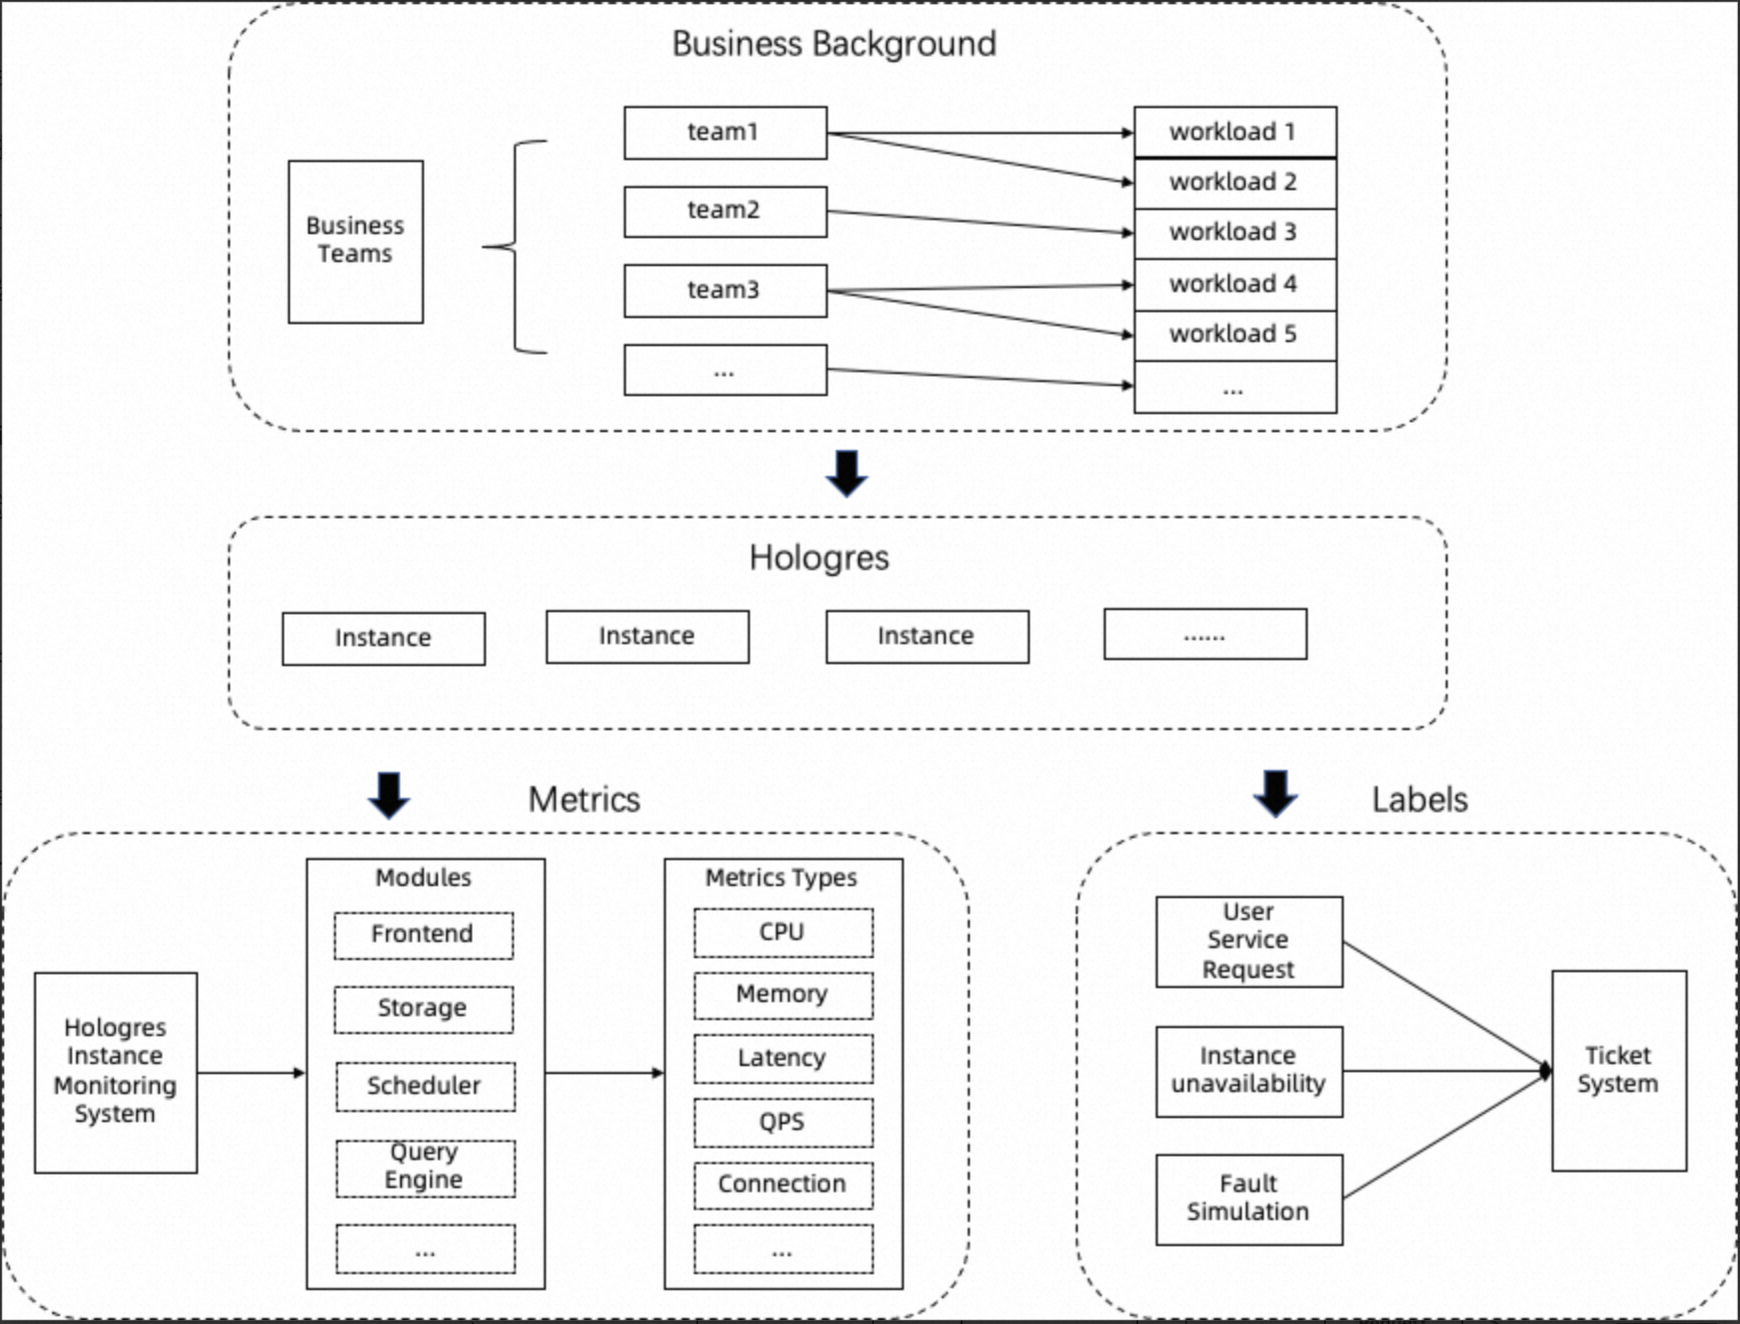
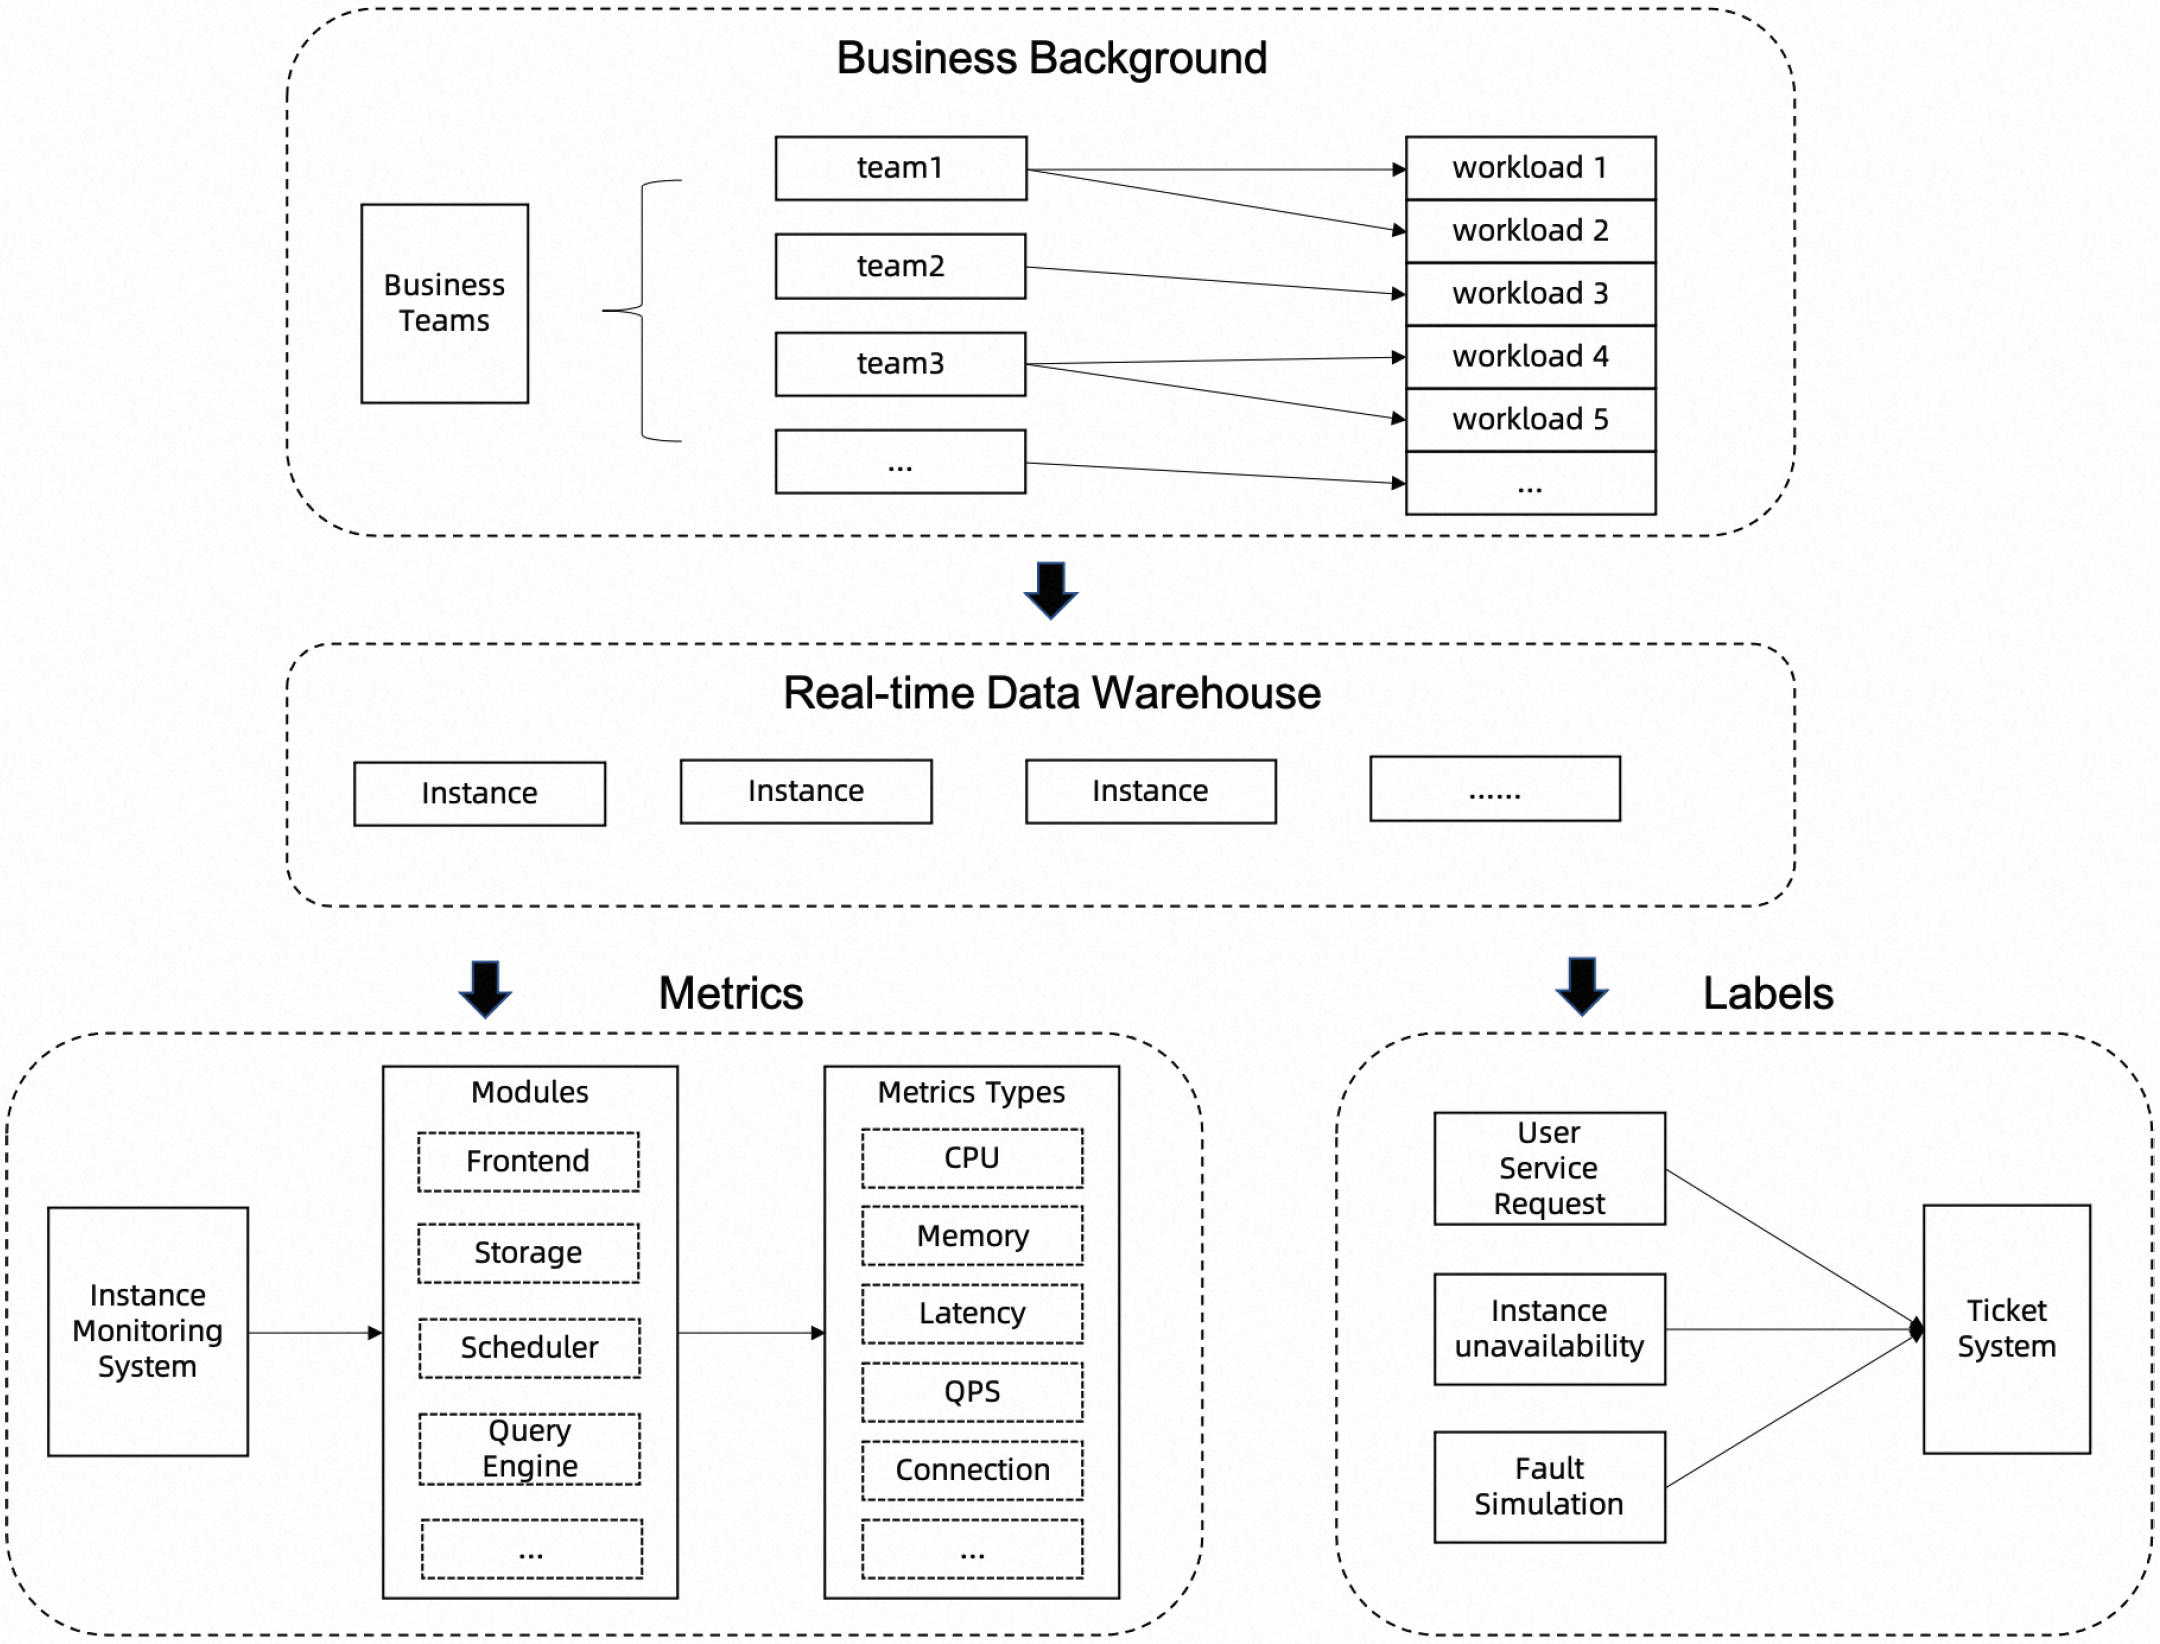
update

diff --git a/README.md b/README.md
@@ -1,19 +1,20 @@
 <a name="t3FFN"></a>
 ## Benchmarking Multivariate Time Series Anomaly Detection with Large-Scale Real-World Datasets
-In this paper, we advance the benchmarking of time series anomaly detection from datasets, evaluation metrics, and algorithm comparison. <br />To the best of our knowledge, we have generated the largest real-world dataset for multivariate time series anomaly detection (MTSAD) from the xx AIOps system. <br />We review and compare popular evaluation metrics including recently proposed.<br />To evaluate classic machine learning and recent deep learning methods fairly, we have performed extensive comparisons of these methods on various datasets. <br />We believe our benchmarking and datasets can promote reproducible results and accelerate the progress of MTSAD research.
+In this paper, we advance the benchmarking of time series anomaly detection from datasets, evaluation metrics, and algorithm comparison. <br />
+To the best of our knowledge, we have generated the largest real-world datasets for MTSAD from the Artificial Intelligence for IT Operations (AIOps) system for a real-time data warehouse in a leading cloud computing company. <br />We review and compare popular evaluation metrics including recently proposed.<br />To evaluate classic machine learning and recent deep learning methods fairly, we have performed extensive comparisons of these methods on various datasets. <br />We believe our benchmarking and datasets can promote reproducible results and accelerate the progress of MTSAD research.
 
 <a name="JwX86"></a>
 ## 1、Datasets
 <a name="T1rHA"></a>
-### 1.1 Real-world xx AIOps Dataset
-The xx Datasets are on [https://figshare.com/articles/dataset/_b_BigDataAD_Benchmark_Dataset_b_/24040563](https://figshare.com/articles/dataset/_b_BigDataAD_Benchmark_Dataset_b_/24040563) <br />For each instance, a CSV file is given. The train dataset and test dataset in each instance should be split evenly through all the timestamps.
+### 1.1 Real-world AIOps Dataset
+The Datasets are on [https://figshare.com/articles/dataset/_b_BigDataAD_Benchmark_Dataset_b_/24040563](https://figshare.com/articles/dataset/_b_BigDataAD_Benchmark_Dataset_b_/24040563) <br />For each instance, a CSV file is given. The train dataset and test dataset in each instance should be split evenly through all the timestamps.
 
-- Illustration of the collection of xx AIOps dataset
+- Illustration of the collection of AIOps dataset
 
 ![](img/system_structure.png)
-All the metrics and labels in our dataset are derived from real-world scenarios. All metrics were obtained from the xx instance monitoring system and cover a rich variety of metric types, including **CPU usage, queries per second (QPS) and latency**, which are related to many important modules within xx. We obtain labels from the ticket system, which integrates three main sources of instance anomalies: user service requests, instance unavailability and fault simulations. User service requests refer to tickets that are submitted directly by users, whereas instance unavailability is typically detected through existing monitoring tools or discovered by Site Reliability Engineers (SREs). Since the system is usually very stable, we augment the anomaly samples by conducting fault simulations. Fault simulation refers to a special type of anomaly, planned beforehand, which is introduced to the system to test its performance under extreme conditions. All records in the ticket system are subject to follow-up processing by engineers, who meticulously mark the start and end times of each ticket. This rigorous approach ensures the accuracy of the labels in our dataset. 
+All the metrics and labels in our dataset are derived from real-world scenarios. All metrics were obtained from the instance monitoring system from a top cloud computing company and cover a rich variety of metric types, including **CPU usage, queries per second (QPS) and latency**, which are related to many important modules within our data warehouse. We obtain labels from the ticket system, which integrates three main sources of instance anomalies: user service requests, instance unavailability and fault simulations. User service requests refer to tickets that are submitted directly by users, whereas instance unavailability is typically detected through existing monitoring tools or discovered by Site Reliability Engineers (SREs). Since the system is usually very stable, we augment the anomaly samples by conducting fault simulations. Fault simulation refers to a special type of anomaly, planned beforehand, which is introduced to the system to test its performance under extreme conditions. All records in the ticket system are subject to follow-up processing by engineers, who meticulously mark the start and end times of each ticket. This rigorous approach ensures the accuracy of the labels in our dataset. 
 
-- Statistic Characteristic of xx AIOps Datasets
+- Statistic Characteristic of Our AIOps Datasets
 
 | Instance | Samples | Dims | Anomaly | Anomaly Rate |
 | --- | --- | --- | --- | --- |
@@ -66,7 +67,7 @@ All the metrics and labels in our dataset are derived from real-world scenarios.
 | instance46 | 167952 | 25 | 2 | 0.001% |
 | instance47 | 167958 | 30 | 26 | 0.015% |
 
-Due to xx Data Exposure Policy, we delete all data's timestamps and column names.<br />The last column of every instance file is the anomaly label, other columns are different system metrics.
+Due to Company Data Exposure Policy, we delete all data's timestamps and column names.<br />The last column of every instance file is the anomaly label, other columns are different system metrics.
 <a name="aCTNS"></a>
 ### 1.2 Public Datasets
 You can download the Public Datasets through the following URL: [https://drive.google.com/file/d/1MqJ-Qf20wm8MaweyyzGc3SB3JujTIiEd/view?usp=sharing](https://drive.google.com/file/d/1MqJ-Qf20wm8MaweyyzGc3SB3JujTIiEd/view?usp=sharing)
@@ -167,7 +168,7 @@ python main.py --model DAGMM --dataset HOLO --instance 15
 
 - Result Analysis
 
-The following table  shows the experiment results on part of xx instances with filling zero for missing data, where the
+The following table shows the experiment results on part of instances with filling zero for missing data, where the
 abbreviations of the evaluation metrics are accuracy, precision, recall, F1-score, affiliation precision,
 affiliation recall, Range_AUC_ROC, Range_AUC_PR, VUS_ROC, VUS_PR, AUC_PR, and AUC_ROC in order.
 
